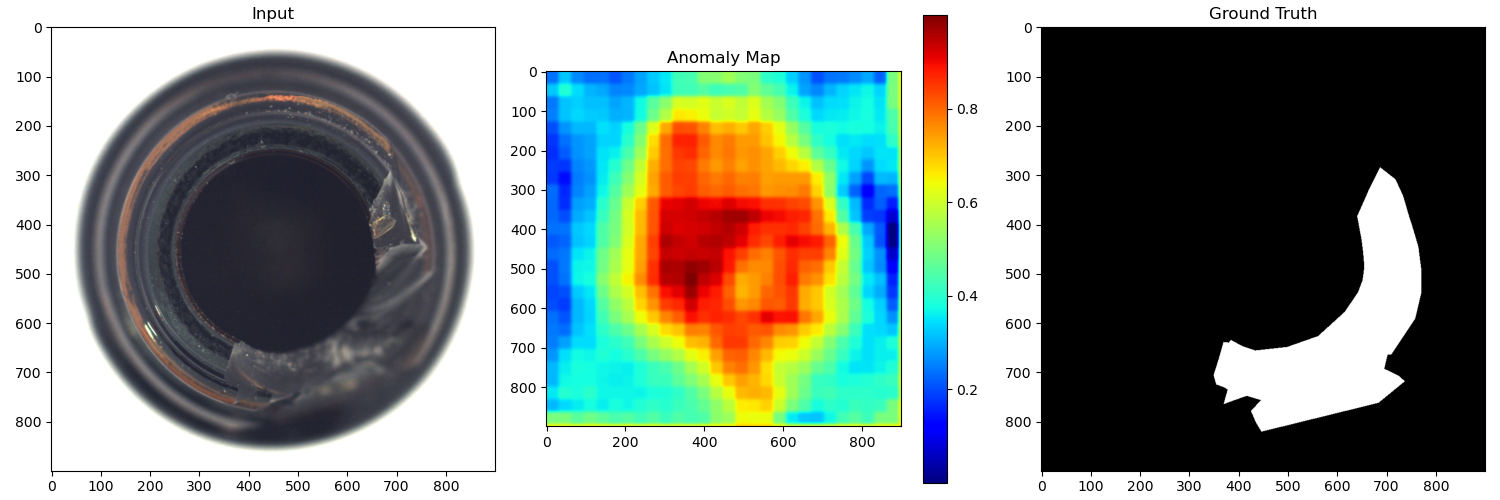
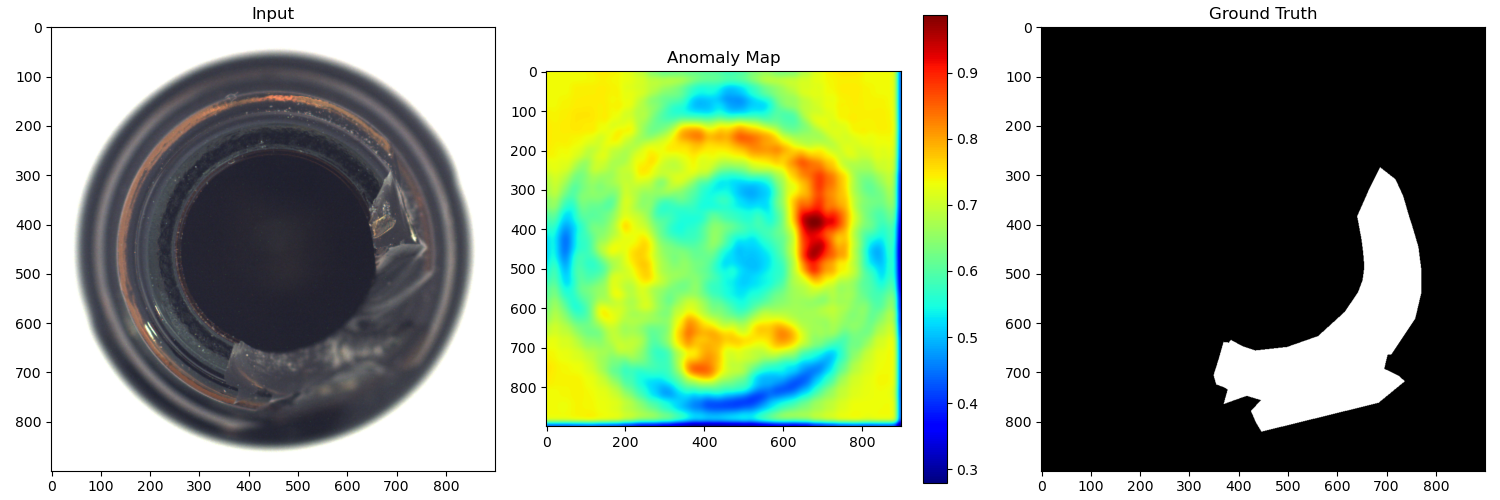
improving results (not good yet)

Changed region(s): [[0.3373, 0.12, 0.6747, 0.87]]

diff --git a/main.py b/main.py
@@ -11,16 +11,22 @@ from services.patch_service import PatchService
 from factories.model_factory import ModelFactory
 from services.benchmark_service import BenchmarkService
 
+
 class WinCLIPExplainer:
     def __init__(self, class_name="object", clip_name="ViT-B-32"):
         self.device = "cuda" if torch.cuda.is_available() else "cpu"
+        self.display_name = class_name
+        self.internal_class_name = f"top view of a glass {class_name} neck"
+
         self.clip: CLIPModel = ModelFactory.create_clip(clip_name, self.device)
+
         self.blip: BLIP2Model = ModelFactory.create_captioner("blip2", self.device)
         self.prompts = PromptService(class_name)
         self.patcher = PatchService(self.clip)
         self.benchmarker = BenchmarkService()
-        #TODO test with other classes
+        # TODO test with other classes
         self.class_name = f"glass {class_name}"
+        self.internal_class_name = f"top view of a glass bottle neck"
 
         self.defect_labels = [
             "scratch", "dent", "crack", "stain", "hole",
@@ -29,7 +35,6 @@ class WinCLIPExplainer:
         self.normal_embs = self.clip.encode_text(self.prompts.get_normal_prompts())
         self.anomaly_embs = self.clip.encode_text(self.prompts.get_anomaly_prompts())
         self.label_embs = self.clip.encode_text(self.prompts.get_defect_label_prompts(self.defect_labels))
-
 
     def run_benchmark(self, image_path, gt_path):
         result = self.explain(image_path)
@@ -66,7 +71,8 @@ class WinCLIPExplainer:
             cnt[t:t + s, l:l + s] += 1
         amap = acc / np.maximum(cnt, 1)
         amap = (amap - amap.min()) / (amap.max() - amap.min() + 1e-8)
-        amap = ndi.gaussian_filter(amap, sigma=8)
+        amap = ndi.gaussian_filter(amap, sigma=4)
+
         top_p = max(patches, key=lambda x: x['score'])
         crop = img.crop((top_p['left'], top_p['top'], top_p['left'] + top_p['size'], top_p['top'] + top_p['size']))
 
@@ -75,7 +81,11 @@ class WinCLIPExplainer:
             'explanation': {
                 'score': top_p['score'],
                 'labels': top_p['labels'],
-                'caption': self.blip.generate_caption(crop)
+                # Ground the captioning in industrial inspection context
+                'caption': self.blip.generate_caption(
+                    crop,
+                    context_prompt=f"Question: What is the defect visible on this {self.display_name} rim? Answer: The defect is"
+                )
             }
         }
 

diff --git a/models/blip_wrapper.py b/models/blip_wrapper.py
@@ -1,9 +1,12 @@
 import torch
+
 try:
     from transformers import Blip2ForConditionalGeneration, Blip2Processor
+
     HAS_BLIP2 = True
 except ImportError:
     HAS_BLIP2 = False
+
 
 class BLIP2Model:
     def __init__(self, device="cpu"):
@@ -11,13 +14,19 @@ class BLIP2Model:
         self.processor = None
         self.model = None
 
-    def generate_caption(self, pil_image):
+    def generate_caption(self, pil_image, context_prompt="a photo of a defect"):
         if not HAS_BLIP2:
             return None
         if self.model is None:
             self.processor = Blip2Processor.from_pretrained("Salesforce/blip2-opt-2.7b")
-            self.model = Blip2ForConditionalGeneration.from_pretrained("Salesforce/blip2-opt-2.7b", torch_dtype=torch.float16).to(self.device)
-        
-        inputs = self.processor(images=pil_image, return_tensors="pt").to(self.device)
-        generated = self.model.generate(**inputs, max_new_tokens=50)
-        return self.processor.tokenizer.decode(generated[0], skip_special_tokens=True)
+            self.model = Blip2ForConditionalGeneration.from_pretrained("Salesforce/blip2-opt-2.7b",
+                                                                       torch_dtype=torch.float16).to(self.device)
+
+        inputs = self.processor(images=pil_image, text=context_prompt, return_tensors="pt").to(self.device)
+        generated = self.model.generate(
+            **inputs,
+            max_new_tokens=30,
+            min_new_tokens=10,
+            repetition_penalty=1.5
+        )
+        return self.processor.tokenizer.decode(generated[0], skip_special_tokens=True).strip()

diff --git a/services/prompt_service.py b/services/prompt_service.py
@@ -1,7 +1,9 @@
 class PromptService:
-    STATE_WORDS_NORMAL = ["flawless", "normal", "intact", "good", "undamaged"]
-    STATE_WORDS_ANOMALY = ["damaged", "broken", "cracked", "scratched", "stained", "missing"]
-    TEMPLATES = ["a photo of a {}", "a cropped photo of a {}", "a close-up photo of a {}", "a high-resolution photo of a {}", "a picture of {}"]
+    STATE_WORDS_NORMAL = ["flawless", "normal", "intact", "good", "undamaged", "dark center", "smooth rim"]
+    STATE_WORDS_ANOMALY = ["damaged", "broken", "cracked", "scratched", "stained", "missing", "jagged edge",
+                           "chipped glass"]
+    TEMPLATES = ["a photo of a {}", "a cropped photo of a {}", "a close-up photo of a {}",
+                 "a high-resolution photo of a {}", "a picture of {}"]
 
     def __init__(self, class_name):
         self.class_name = class_name

diff --git a/services/patch_service.py b/services/patch_service.py
@@ -2,7 +2,7 @@ import torch
 from PIL import Image
 
 class PatchService:
-    def __init__(self, clip_model, window_sizes=(128, 224), strides=(32, 64)):
+    def __init__(self, clip_model, window_sizes=(32, 64, 128), strides=(8, 16, 32)):
         self.clip_model = clip_model
         self.window_sizes = window_sizes
         self.strides = strides
